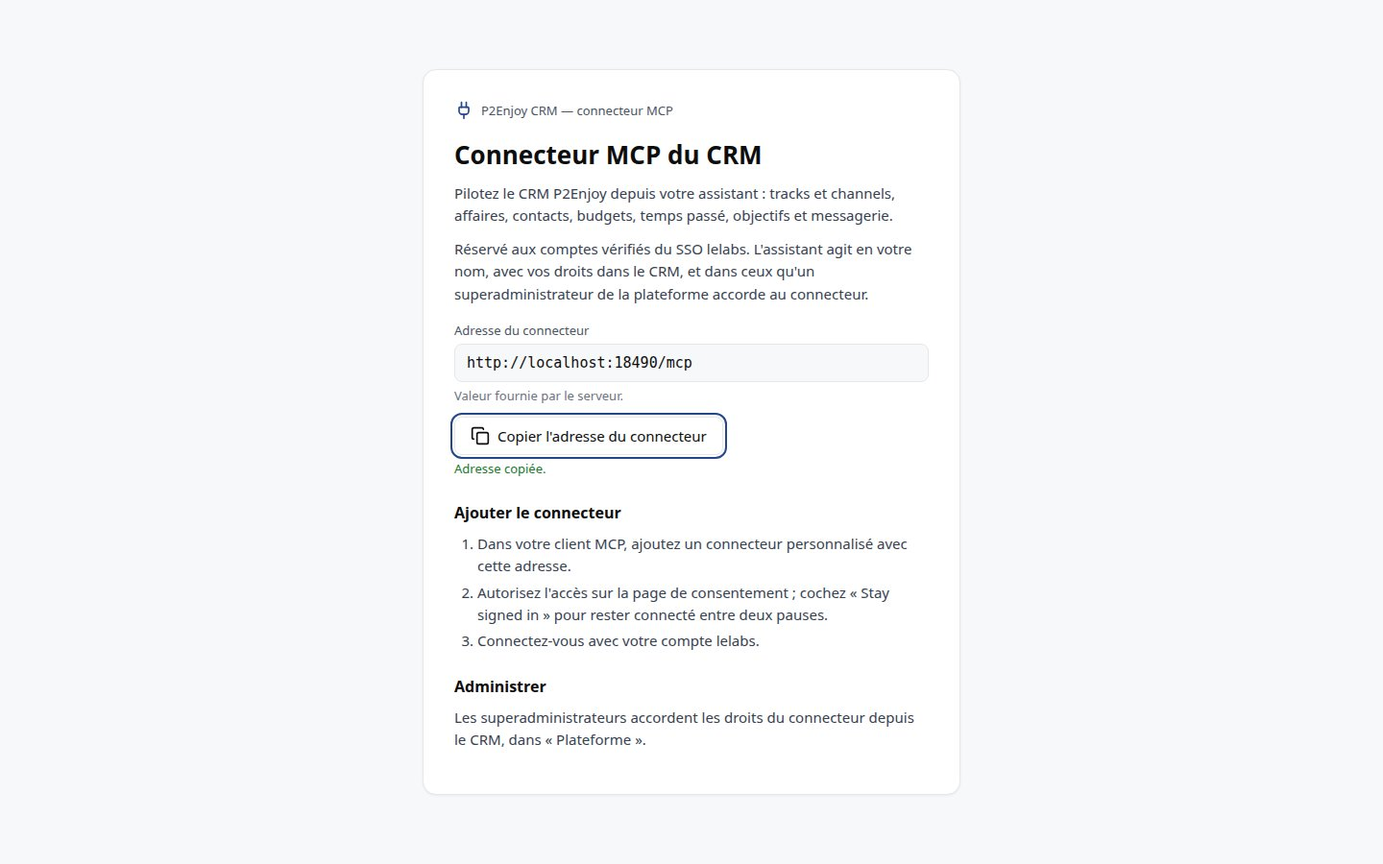
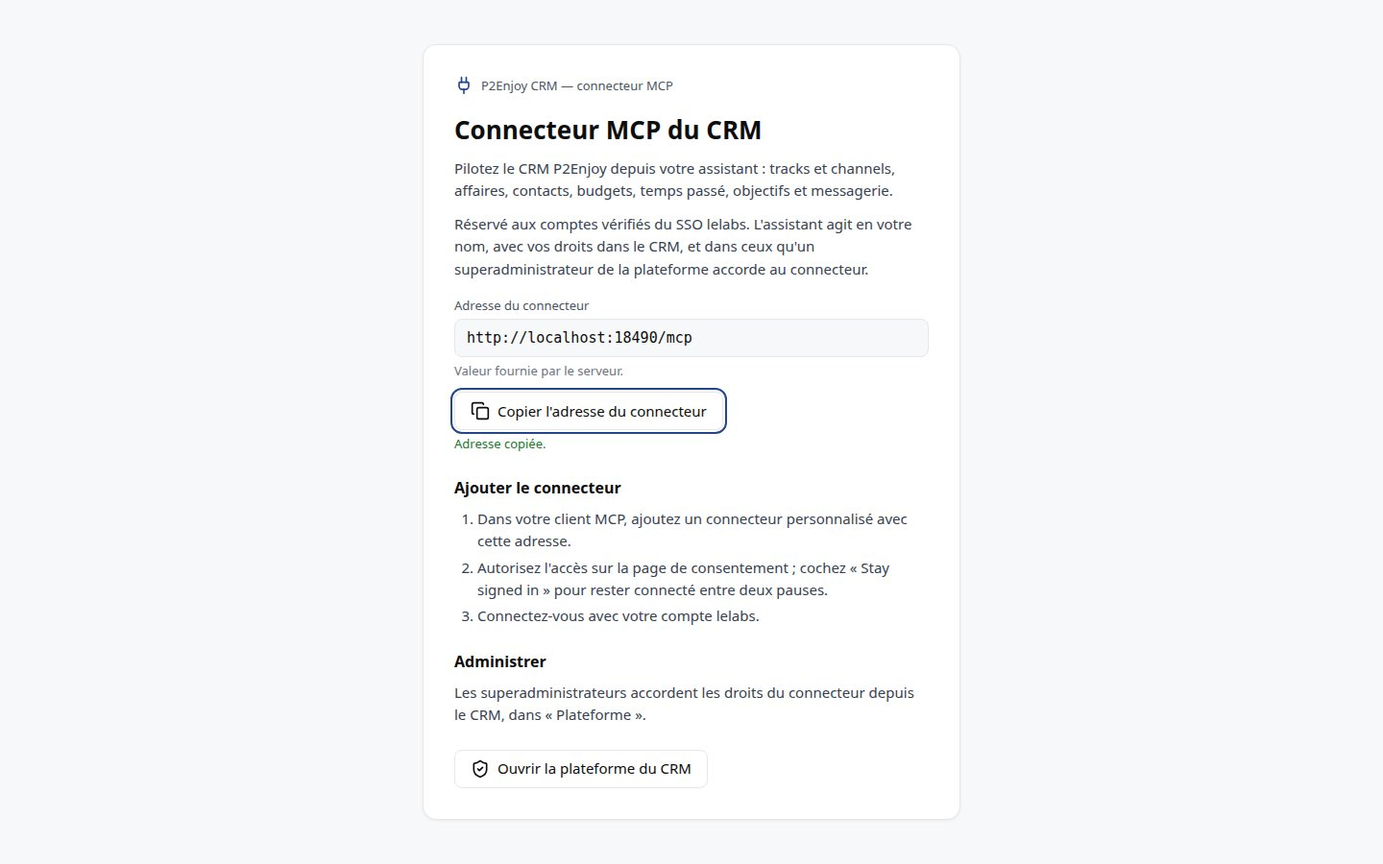
CRM-102 T6 : l'accueil du connecteur mène à la plateforme de la webapp — lien « Ouvrir la plateforme du CRM » (secondaire, ShieldCheck), /plateforme et /admin en 302 vers SITE_URL/plateforme, SITE_URL remise au service et obligatoire ; pytest 105, verify-mcp 53 (intégration 14/14 en direct et par le

Changed region(s): [[0.3125, 0.0933, 0.6562, 0.9022]]

diff --git a/e2e/ui/connecteur-mcp.spec.ts b/e2e/ui/connecteur-mcp.spec.ts
@@ -4,6 +4,8 @@
 //           vérification attendue ; aucun code émis sur un refus ; registre injoignable = refus), §5 (la donnée lue sous la
 //           RLS), §7.1 (une ligne au journal) ; docs/DESIGN_SYSTEM.md §5.57 (pages du connecteur), §5.12 (attente et
 //           refus), §7 (quatre paliers, aucun défilement horizontal), §8 (clavier) ; CLAUDE.md §15, §16
+// @verifies CRM-102 T6 — docs/SPEC-mcp.md §2.2 et docs/DESIGN_SYSTEM.md §5.57 : l'accueil mène, au clavier, à la plateforme
+//           de la webapp (`SITE_URL`), où la superadministratrice arrive après sa connexion ; `/admin` y mène aussi
 //
 // Le navigateur ne fait que ce qu'un humain fait — consentir, se connecter au SSO —, et le client MCP de test
 // (`e2e/mcp/client.ts`) fait le reste : enregistrement, échange du code, JSON-RPC. Tout part des comptes du realm de
@@ -11,9 +13,10 @@
 // l'état d'erreur, provoqué par un retrait de privilège rétabli dans le même scénario.
 
 import { execFileSync } from 'node:child_process'
-import { ERREUR_RESSOURCE_HTTP, autoriserErreursConsole, expect, test, type Page } from './fixtures'
+import { ERREUR_RESSOURCE_HTTP, autoriserErreursConsole, connecterAvecLeLabs, expect, test, type Page } from './fixtures'
 import { PALIERS, capturer } from './captures'
 import { MOT_DE_PASSE_SEED, URL_API, enTetesService } from '../api/jetons'
+import { lireEnv } from '../env'
 import { ORIGINE_MCP, RETOUR_CLIENT, SessionMcp, echangerCode, preparerAutorisation } from '../mcp/client'
 
 const UNITE = 'CRM-102'
@@ -175,6 +178,33 @@ test.describe('Le connecteur MCP, par un vrai client (docs/SPEC-mcp.md §3, §4)
 			await capturer(page, `accueil-${palier.nom}`, UNITE)
 			await sansDefilementHorizontal(page, `accueil ${palier.nom}`)
 		}
+	})
+
+	test('l’accueil mène à la plateforme de la webapp, au clavier ; « /admin » y mène aussi', async ({ page }) => {
+		const webapp = lireEnv('SITE_URL')
+		await page.goto(`${ORIGINE_MCP}/`)
+		const lien = page.getByRole('link', { name: 'Ouvrir la plateforme du CRM' })
+		await expect(lien).toHaveAttribute('href', `${webapp}/plateforme`)
+		expect(await lien.getAttribute('target'), 'même onglet : la webapp est le même produit (§5.57)').toBeNull()
+		for (const palier of PALIERS) {
+			await page.setViewportSize({ width: palier.largeur, height: palier.hauteur })
+			await lien.scrollIntoViewIfNeeded()
+			expect((await lien.boundingBox())?.height ?? 0, `cible de 40 px (§8), ${palier.nom}`).toBeGreaterThanOrEqual(40)
+			await capturer(page, `accueil-administration-${palier.nom}`, UNITE)
+			await sansDefilementHorizontal(page, `accueil, lien de la plateforme, ${palier.nom}`)
+		}
+		await page.setViewportSize({ width: 1440, height: 900 })
+		await lien.focus()
+		await page.keyboard.press('Enter')
+		// Sans session, la webapp demande la connexion et retient l'adresse demandée (§5.12) ; la superadministratrice
+		// arrive ensuite sur la plateforme.
+		await expect(page.getByRole('button', { name: 'Se connecter avec LeLabs' })).toBeVisible()
+		expect(new URL(page.url()).origin).toBe(new URL(webapp).origin)
+		await connecterAvecLeLabs(page, SABINE.adresse, { naviguer: false })
+		await expect(page).toHaveURL(`${webapp}/plateforme/espaces`)
+		await page.goto(`${ORIGINE_MCP}/admin`)
+		await expect(page).toHaveURL(`${webapp}/plateforme/espaces`)
+		await expect(page.getByTestId('ligne-espace').first()).toBeVisible()
 	})
 
 	test('la page de consentement porte la charte, ne charge rien d’un tiers, et tient aux quatre paliers', async ({ page }) => {

diff --git a/mcp/crm_mcp/pages.py b/mcp/crm_mcp/pages.py
@@ -2,6 +2,8 @@
 # @spec docs/SPEC-mcp.md §4 (« Compte en attente de vérification », « Droits en attente », « La connexion n'a pas abouti »),
 #       §2.2 (adresse du connecteur) ; docs/DESIGN_SYSTEM.md §5.57 (les pages du connecteur), §5.12 (surface autonome,
 #       attente et refus), §1 (jetons de la webapp) — tranche T3 : jetons, icônes d'attente et de refus, espaces insécables
+# @spec CRM-102 tranche T6 — docs/DESIGN_SYSTEM.md §5.57 (« Ouvrir la plateforme du CRM », lien secondaire, `ShieldCheck`) ;
+#       docs/SPEC-mcp.md §2.2 (l'administration vit dans la webapp)
 # @spec Repris du connecteur Evoliz (p2enjoy-evoliz, `evoliz_mcp/pages.py`, révision 80a3e27). Écarts : textes du CRM,
 #       aucune administration propre — elle vit dans la webapp (arbitrage A3) —, favicon du CRM (monogramme « P2 »).
 """Pages publiques : accueil, attentes (vérification, droits), erreur de connexion.
@@ -48,6 +50,12 @@ _ICONE_ALERTE = (
     '<svg class="icone" aria-hidden="true" viewBox="0 0 24 24">'
     '<path d="m21.73 18-8-14a2 2 0 0 0-3.48 0l-8 14A2 2 0 0 0 4 21h16a2 2 0 0 0 1.73-3"/>'
     '<path d="M12 9v4"/><path d="M12 17h.01"/></svg>'
+)
+# `ShieldCheck`, l'icône de l'entrée « Plateforme » de la webapp (§5.56) : le même objet (§9).
+_ICONE_PLATEFORME = (
+    '<svg class="icone" aria-hidden="true" viewBox="0 0 24 24"><path d="M20 13c0 5-3.5 7.5-7.66 8.95a1 1 0 0 1-.67-.01'
+    'C7.5 20.5 4 18 4 13V6a1 1 0 0 1 1-1c2 0 4.5-1.2 6.24-2.72a1.17 1.17 0 0 1 1.52 0C14.51 3.81 17 5 19 5a1 1 0 0 1 1 1z"/>'
+    '<path d="m9 12 2 2 4-4"/></svg>'
 )
 _ICONE_COPIE = (
     '<svg class="icone" aria-hidden="true" viewBox="0 0 24 24"><rect width="14" height="14" x="8" y="8" '
@@ -166,8 +174,8 @@ def _page(titre: str, corps: str, script: str = "") -> str:
 """
 
 
-def accueil(url_mcp: str) -> str:
-    """Page d'accueil : ce qu'est le service, son adresse, sa règle d'accès."""
+def accueil(url_mcp: str, url_plateforme: str) -> str:
+    """Page d'accueil : ce qu'est le service, son adresse, sa règle d'accès, et le chemin de son administration."""
     corps = f"""<h1>Connecteur MCP du CRM</h1>
 <p>Pilotez le CRM P2Enjoy depuis votre assistant&nbsp;: tracks et channels, affaires, contacts, budgets, temps passé,
 objectifs et messagerie.</p>
@@ -188,7 +196,8 @@ ceux qu'un superadministrateur de la plateforme accorde au connecteur.</p>
   <li>Connectez-vous avec votre compte lelabs.</li>
 </ol>
 <h2>Administrer</h2>
-<p>Les superadministrateurs accordent les droits du connecteur depuis le CRM, dans «&nbsp;Plateforme&nbsp;».</p>"""
+<p>Les superadministrateurs accordent les droits du connecteur depuis le CRM, dans «&nbsp;Plateforme&nbsp;».</p>
+<p class="actions"><a class="bouton bouton-secondaire" href="{escape(url_plateforme)}">{_ICONE_PLATEFORME}<span>Ouvrir la plateforme du CRM</span></a></p>"""
     script = """<script>
 document.getElementById('copier').addEventListener('click', async function () {
   var champ = document.getElementById('adresse');

diff --git a/mcp/tests/test_pages.py b/mcp/tests/test_pages.py
@@ -3,19 +3,34 @@
 #           attentes, pas des erreurs ; la connexion refusée est une alerte), §3.3 (« Stay signed in » expliqué)
 # @verifies Repris des preuves d'Evoliz (p2enjoy-evoliz, `tests/test_pages.py`, révision 80a3e27) ; l'administration vit
 #           dans la webapp du CRM (arbitrage A3).
+# @verifies CRM-102 T6 — docs/DESIGN_SYSTEM.md §5.57 (l'accueil mène à la plateforme : lien secondaire « Ouvrir la
+#           plateforme du CRM », icône `ShieldCheck`, adresse échappée) ; docs/SPEC-mcp.md §2.2
 from __future__ import annotations
 
 from crm_mcp import pages
 
 
 def test_accueil_donne_l_adresse_et_la_regle():
-    html = pages.accueil("https://crm.mcp.exemple.test/mcp")
+    html = pages.accueil("https://crm.mcp.exemple.test/mcp", "https://crm.exemple.test/plateforme")
     assert 'value="https://crm.mcp.exemple.test/mcp"' in html
     assert "comptes vérifiés du SSO lelabs" in html and "superadministrateur" in html
     assert "«&nbsp;Stay signed in&nbsp;»" in html and "«&nbsp;Plateforme&nbsp;»" in html
     assert "assistant&nbsp;:" in html, "espace insécable avant les deux-points (docs/DESIGN_SYSTEM.md §5.51)"
     assert "/admin" not in html
     assert 'lang="fr"' in html and 'rel="icon"' in html
+
+
+def test_accueil_mene_a_la_plateforme_de_la_webapp():
+    """Un lien — il change d'adresse — en forme de bouton secondaire, pour la cible de 40 px ; `ShieldCheck`, l'icône de
+    l'entrée « Plateforme » de la webapp ; même onglet (docs/DESIGN_SYSTEM.md §5.57)."""
+    html = pages.accueil("https://crm.mcp.exemple.test/mcp", "https://crm.exemple.test/plateforme")
+    lien = (
+        '<a class="bouton bouton-secondaire" href="https://crm.exemple.test/plateforme">'
+        '<svg class="icone" aria-hidden="true" viewBox="0 0 24 24"><path d="M20 13c0 5-3.5 7.5-7.66 8.95'
+    )
+    assert lien in html
+    assert '<path d="m9 12 2 2 4-4"/></svg><span>Ouvrir la plateforme du CRM</span></a>' in html
+    assert html.count("<a ") == 1 and "target=" not in html
 
 
 def test_attente_et_refus_portent_les_formes_du_5_12():
@@ -43,7 +58,8 @@ def test_valeurs_echappees():
     assert "<script>alert(1)</script>" not in pages.droits_en_attente(courriel='"><script>alert(1)</script>')
     html = pages.verification_attendue(courriel="<b>", compte_url='javascript:x"')
     assert "&lt;b&gt;" in html and 'javascript:x"' not in html
-    assert '"><img' not in pages.accueil('https://x/"><img src=x>')
+    assert '"><img' not in pages.accueil('https://x/"><img src=x>', "https://crm.exemple.test/plateforme")
+    assert '"><img' not in pages.accueil("https://x/mcp", 'https://x/"><img src=x>')
 
 
 def test_erreur_connexion_est_une_alerte():

diff --git a/mcp/crm_mcp/application.py b/mcp/crm_mcp/application.py
@@ -1,5 +1,6 @@
 # @spec CRM-102 (docs/BACKLOG.md) — tranche T2 : l'assemblage du connecteur
 # @spec CRM-102 tranche T3 — docs/DESIGN_SYSTEM.md §5.57 (l’icône du serveur, monogramme du CRM, sur la page de consentement)
+# @spec CRM-102 tranche T6 — docs/SPEC-mcp.md §2.2 (`/plateforme` et `/admin` mènent à l'administration de la webapp)
 # @spec docs/SPEC-mcp.md §2 (un service, un hôte, `/mcp`), §3 (mandataire OAuth, état chiffré), §6.2 (audit puis
 #       politique, avant l'outil), §11 (`/sante`, `/pret`) ; docs/JOURNAL.md décision 627 (D1, D5, D8)
 # @spec Modèle : `evoliz_mcp/application.py` (p2enjoy-evoliz, révision 80a3e27). Écarts : aucune administration
@@ -16,7 +17,7 @@ import httpx2
 from fastmcp import FastMCP
 from mcp_types import Icon
 from starlette.requests import Request
-from starlette.responses import HTMLResponse, JSONResponse
+from starlette.responses import HTMLResponse, JSONResponse, RedirectResponse
 
 from crm_mcp import pages
 from crm_mcp.audit import AuditOutils
@@ -44,6 +45,21 @@ you see and change exactly what you could in the CRM web app, never more.
 - Lists are paginated: use limit (max 100) and offset.
 - Nothing is ever purged through this connector: "supprimer" moves to the trash or archives.
 """
+
+
+#: Chemins de l'hôte du connecteur qui mènent à l'administration, dans la webapp : celui que le responsable a tapé, et
+#: celui de l'administration d'Evoliz (docs/SPEC-mcp.md §2.2). Aucun autre chemin n'est redirigé.
+CHEMINS_ADMINISTRATION = ("/plateforme", "/admin")
+
+
+def vers_l_administration(url_plateforme: str):
+    """Le point qui répond `302` vers la plateforme de la webapp. `302` et non `301` : la destination changera avec
+    `CRM-103`. La chaîne de requête n'est pas transmise."""
+
+    async def rediriger(_: Request) -> RedirectResponse:
+        return RedirectResponse(url_plateforme, status_code=302)
+
+    return rediriger
 
 
 @dataclass
@@ -104,7 +120,11 @@ def construire(reglages: Reglages, *, transport_crm: httpx2.AsyncBaseTransport |
 
     @serveur.custom_route("/", methods=["GET"])
     async def accueil(_: Request) -> HTMLResponse:
-        return HTMLResponse(pages.accueil(reglages.url_mcp))
+        return HTMLResponse(pages.accueil(reglages.url_mcp, reglages.url_plateforme))
+
+    rediriger = vers_l_administration(reglages.url_plateforme)
+    for chemin in CHEMINS_ADMINISTRATION:
+        serveur.custom_route(chemin, methods=["GET"])(rediriger)
 
     @serveur.custom_route("/sante", methods=["GET"])
     async def sante(_: Request) -> JSONResponse:

diff --git a/mcp/tests/test_application.py b/mcp/tests/test_application.py
@@ -1,13 +1,18 @@
 # @spec CRM-102 (docs/BACKLOG.md) — tranche T2 : preuves unitaires de l'assemblage et des sondes
 # @verifies CRM-102 T2 — docs/SPEC-mcp.md §11 (`/pret` : découverte OIDC et `rest` à travers Kong, contrôle en défaut
 #           nommé), §2 (consignes au modèle : point de départ `crm_workspace_list`, refus uniforme, pagination)
+# @verifies CRM-102 T6 — docs/SPEC-mcp.md §2.2 (`/plateforme` et `/admin` en `302` vers la plateforme de la webapp, sans
+#           chaîne de requête ; aucun autre chemin). L'enregistrement dans le service réel est prouvé par l'intégration.
 from __future__ import annotations
 
 import httpx2
 import pytest
 
 from crm_mcp import application
-from crm_mcp.application import INSTRUCTIONS, disponibilite
+from starlette.applications import Starlette
+from starlette.routing import Route
+
+from crm_mcp.application import CHEMINS_ADMINISTRATION, INSTRUCTIONS, disponibilite, vers_l_administration
 from crm_mcp.crm import ClientCrm
 
 from .conftest import CLE_ANONYME, CLE_SERVICE
@@ -66,3 +71,17 @@ def test_consignes_au_modele():
     assert "crm_workspace_list" in INSTRUCTIONS
     assert "Introuvable ou hors de votre périmètre" in INSTRUCTIONS
     assert "limit (max 100) and offset" in INSTRUCTIONS
+
+
+async def test_les_chemins_de_l_administration_redirigent_vers_la_webapp():
+    assert CHEMINS_ADMINISTRATION == ("/plateforme", "/admin")
+    cible = "https://crm.exemple.test/plateforme"
+    point = vers_l_administration(cible)
+    routes = [Route(chemin, point, methods=["GET"]) for chemin in CHEMINS_ADMINISTRATION]
+    transport = httpx2.ASGITransport(app=Starlette(routes=routes))
+    async with httpx2.AsyncClient(transport=transport, base_url="https://crm.mcp.exemple.test") as http:
+        for chemin in ("/plateforme", "/admin", "/plateforme?onglet=espaces"):
+            reponse = await http.get(chemin)
+            assert (reponse.status_code, reponse.headers["location"]) == (302, cible), chemin
+        assert (await http.get("/plateforme/espaces")).status_code == 404
+        assert (await http.post("/plateforme")).status_code == 405

diff --git a/mcp/crm_mcp/reglages.py b/mcp/crm_mcp/reglages.py
@@ -1,6 +1,7 @@
 # @spec CRM-102 (docs/BACKLOG.md) — tranche T2 : la configuration du connecteur
 # @spec docs/SPEC-mcp.md §10 (variables, formats, caractère obligatoire), §2.2 (adresses) ; docs/SPEC-plateforme.md §3
 #       (la liste d'amorçage, normalisée comme par la fonction `session`)
+# @spec CRM-102 tranche T6 — docs/SPEC-mcp.md §2.2, §10 : `SITE_URL` réutilisée, l'adresse de la plateforme de la webapp
 """Réglages lus dans l'environnement, une fois, au démarrage.
 
 Le démarrage refuse une configuration incomplète en NOMMANT chaque variable manquante : un service qui partirait
@@ -57,6 +58,7 @@ def _entier(valeur: str | None, defaut: int) -> int:
 @dataclass(frozen=True)
 class Reglages:
     origine_publique: str
+    origine_webapp: str
     oidc_emetteur: str
     oidc_client_id: str
     oidc_client_secret: str
@@ -81,6 +83,11 @@ class Reglages:
     def url_mcp(self) -> str:
         return f"{self.origine_publique}/mcp"
 
+    @property
+    def url_plateforme(self) -> str:
+        """L'administration du connecteur, dans la webapp (arbitrage A3, docs/SPEC-mcp.md §2.2)."""
+        return f"{self.origine_webapp}/plateforme"
+
     @classmethod
     def depuis_environnement(cls, env: Mapping[str, str]) -> Reglages:
         obligatoires = {
@@ -92,6 +99,7 @@ class Reglages:
             "SUPABASE_URL": env.get("SUPABASE_URL", "").strip().rstrip("/"),
             "SUPABASE_ANON_KEY": env.get("SUPABASE_ANON_KEY", ""),
             "SUPABASE_SERVICE_ROLE_KEY": env.get("SUPABASE_SERVICE_ROLE_KEY", ""),
+            "SITE_URL": env.get("SITE_URL", "").strip().rstrip("/"),
         }
         manquantes = [nom for nom, valeur in obligatoires.items() if not valeur]
         if manquantes:
@@ -101,6 +109,7 @@ class Reglages:
         )
         return cls(
             origine_publique=obligatoires["CRM_MCP_ORIGINE_PUBLIQUE"],
+            origine_webapp=obligatoires["SITE_URL"],
             oidc_emetteur=obligatoires["SSO_OIDC_ISSUER"],
             oidc_client_id=obligatoires["SSO_OIDC_CLIENT_ID"],
             oidc_client_secret=obligatoires["OIDC_CLIENT_SECRET"],

diff --git a/mcp/tests/test_reglages.py b/mcp/tests/test_reglages.py
@@ -1,6 +1,7 @@
 # @spec CRM-102 (docs/BACKLOG.md) — tranche T2 : preuves unitaires des réglages
 # @verifies CRM-102 T2 — docs/SPEC-mcp.md §10 (variables, formats, défauts, refus nommé d'une configuration
 #           incomplète) ; docs/SPEC-plateforme.md §3 (liste d'amorçage normalisée comme par la fonction `session`)
+# @verifies CRM-102 T6 — docs/SPEC-mcp.md §2.2, §10 (`SITE_URL` obligatoire, l'adresse de la plateforme de la webapp)
 from __future__ import annotations
 
 from pathlib import Path
@@ -14,6 +15,8 @@ def test_configuration_complete_et_defauts(env_complet):
     r = Reglages.depuis_environnement(env_complet)
     assert r.origine_publique == "https://crm.mcp.exemple.test"
     assert r.url_mcp == "https://crm.mcp.exemple.test/mcp"
+    assert r.origine_webapp == "https://crm.exemple.test"
+    assert r.url_plateforme == "https://crm.exemple.test/plateforme"
     assert r.oidc_emetteur == "https://sso.exemple.test/realms/lelabs"
     assert r.decouverte == "https://sso.exemple.test/realms/lelabs/.well-known/openid-configuration"
     assert r.api_crm == "http://kong:8000"
@@ -31,6 +34,14 @@ def test_chaque_variable_manquante_est_nommee(env_complet):
         Reglages.depuis_environnement(env_complet)
     assert erreur.value.manquantes == ["SSO_OIDC_CLIENT_ID", "JWT_SECRET", "SUPABASE_SERVICE_ROLE_KEY"]
     assert "JWT_SECRET" in str(erreur.value)
+
+
+def test_site_url_manquante_est_nommee(env_complet):
+    """Sans l'origine de la webapp, l'accueil et `/plateforme` ne sauraient où mener : le démarrage refuse."""
+    env_complet["SITE_URL"] = " / "
+    with pytest.raises(ReglagesIncomplets) as erreur:
+        Reglages.depuis_environnement(env_complet)
+    assert erreur.value.manquantes == ["SITE_URL"]
 
 
 def test_valeurs_facultatives_lues(env_complet):

diff --git a/mcp/tests/test_integration_oauth.py b/mcp/tests/test_integration_oauth.py
@@ -4,6 +4,8 @@
 #           renouvellement qui survit à la fin de la session du SSO), §3.4 (adresses de retour restreintes), §4 (qui
 #           entre : superadministratrice en base, `admin` LeLabs, un droit ; « Droits en attente » ; vérification
 #           attendue ; aucun code sur un refus), §5 (la donnée lue sous la RLS), §7.1 (une ligne au journal), §11 (`/pret`)
+# @verifies CRM-102 T6 — docs/SPEC-mcp.md §2.2 : le service en route redirige `/plateforme` et `/admin` vers la plateforme
+#           de la webapp (`SITE_URL`), et son accueil porte le lien ; en direct comme à travers le Caddy de la cellule
 # @verifies Modèle : `tests/test_integration_oauth.py` d'Evoliz (p2enjoy-evoliz, révision 80a3e27). Écarts : les comptes
 #           du realm du CRM ; `sso.localhost` est le même dedans et dehors (décision 568), seule l'origine publique du
 #           connecteur est réécrite ; le registre est lu en base par la clé de service.
@@ -228,6 +230,15 @@ async def test_pret_dit_sso_et_crm():
         reponse = await http.get(f"{MCP}/pret")
     assert reponse.status_code == 200, reponse.text
     assert reponse.json()["controles"] == {"sso": "ok", "crm": "ok"}
+
+
+async def test_plateforme_et_admin_menent_a_la_webapp():
+    async with httpx2.AsyncClient() as http:
+        for chemin in ("/plateforme", "/admin"):
+            reponse = await http.get(f"{MCP}{chemin}")
+            assert (reponse.status_code, reponse.headers.get("location")) == (302, f"{SITE}/plateforme"), chemin
+        accueil = (await http.get(f"{MCP}/")).text
+    assert f'class="bouton bouton-secondaire" href="{SITE}/plateforme"' in accueil
 
 
 async def test_adresse_de_retour_hors_liste_refusee():

diff --git a/mcp/tests/conftest.py b/mcp/tests/conftest.py
@@ -40,6 +40,7 @@ ENV_COMPLET = {
     "SUPABASE_URL": "http://kong:8000/",
     "SUPABASE_ANON_KEY": CLE_ANONYME,
     "SUPABASE_SERVICE_ROLE_KEY": CLE_SERVICE,
+    "SITE_URL": "https://crm.exemple.test/",
 }
 
 

diff --git a/README.md b/README.md
@@ -663,7 +663,7 @@ preuves.
 | Chiffrement | `PG_META_CRYPTO_KEY`, `REALTIME_DB_ENC_KEY` | Obligatoires. Longueurs imposées : 32 et 16 caractères. Les secrets de messagerie ne sont pas ici : ils vivent dans le Vault de la base, chiffrés par sa clé racine (décision 366, INC-098) |
 | Durée des jetons | `JWT_EXPIRY` | Obligatoire, lue par la base et PostgREST. `DISABLE_SIGNUP` et `PASSWORD_MIN_LENGTH` sont retirées avec GoTrue (`CRM-092` T6) |
 | Superadministration | `CRM_SUPERADMINS_INITIAUX` | `CRM-101`. **Facultative.** Adresses LeLabs amorcées superadministratrices de la plateforme à leur première connexion admise, **tant qu'aucune ne l'est** ; sans effet ensuite (`docs/SPEC-plateforme.md` §3). Remise au seul worker `session`. Vide dans le gabarit ; en développement, l'overlay lui donne pour défaut le compte de démonstration `plateforme@<domaine du seed>` ; en production, le propriétaire du Spark y pose l'adresse du responsable |
-| Connecteur MCP | `CRM_MCP_HOTE`, `CRM_MCP_REDIRECTIONS_CLIENTS`, `CRM_MCP_TAILLE_MAX_REPONSE`, `CRM_MCP_DEBIT_OAUTH_MINUTE`, `CRM_MCP_ENREGISTREMENTS_HEURE`, `CRM_MCP_JOURNAL_NIVEAU`, `MCP_DEV_PORT` | `CRM-102`. **Toutes facultatives.** `CRM_MCP_HOTE` (un nom d'hôte, par exemple `crm.mcp.lelabs.tech`) allume le connecteur en production — profil Compose `mcp` et aiguillage de Caddy — ; vide, il reste éteint et ne reçoit aucun secret. `CRM_MCP_ORIGINE_PUBLIQUE` n'est jamais posée à la main : Compose la dérive. Les autres règlent les adresses de retour acceptées, la taille des réponses, les débits et les journaux (`docs/SPEC-mcp.md` §10) ; `MCP_DEV_PORT` (`18490`) publie le connecteur en développement |
+| Connecteur MCP | `CRM_MCP_HOTE`, `CRM_MCP_REDIRECTIONS_CLIENTS`, `CRM_MCP_TAILLE_MAX_REPONSE`, `CRM_MCP_DEBIT_OAUTH_MINUTE`, `CRM_MCP_ENREGISTREMENTS_HEURE`, `CRM_MCP_JOURNAL_NIVEAU`, `MCP_DEV_PORT` | `CRM-102`. **Toutes facultatives.** `CRM_MCP_HOTE` (un nom d'hôte, par exemple `crm.mcp.lelabs.tech`) allume le connecteur en production — profil Compose `mcp` et aiguillage de Caddy — ; vide, il reste éteint et ne reçoit aucun secret. `CRM_MCP_ORIGINE_PUBLIQUE` n'est jamais posée à la main : Compose la dérive. Le service reçoit aussi `SITE_URL`, déjà obligatoire : son accueil et ses chemins `/plateforme` et `/admin` mènent à la plateforme de la webapp (T6). Les autres règlent les adresses de retour acceptées, la taille des réponses, les débits et les journaux (`docs/SPEC-mcp.md` §10) ; `MCP_DEV_PORT` (`18490`) publie le connecteur en développement |
 | Connexion unique | `SSO_OIDC_ISSUER`, `SSO_OIDC_CLIENT_ID`, `OIDC_CLIENT_SECRET`, `SSO_DEV_PORT`, `SSO_DEV_ADMIN_PASSWORD` | `CRM-091`, révisé par `CRM-092`. Les trois premières sont obligatoires partout : émetteur exact, client OIDC **confidentiel** (`lelabs-crm-serveur`) et son secret, lus par l'échangeur de session — le secret n'atteint que lui, et jamais le bundle ; l'émetteur et le client sont en outre figés au build de la webapp. En production, le secret est posé par l'administrateur du realm LeLabs ; en développement, tiré au hasard par `./runDev.sh`. Les deux dernières ne servent qu'au Keycloak de développement ; le mot de passe d'administration est tiré au hasard par `./runDev.sh` et **sans objet** dans la cellule Spark |
 | Pile | `STACK_RLIMIT_NOFILE`, `APPLY_MIGRATIONS` | Facultatives, avec défauts. `APPLY_MIGRATIONS=false` est imposé en production **et doit y rester** : c'est ce qui empêche une migration non décidée. Les migrations de production s'appliquent dans une fenêtre de maintenance ouverte par `./runProd.sh --migrate`, qui surcharge la variable pour sa seule invocation sans réécrire `.env`, et dont le retour arrière est la restauration de l'instantané de VM (décision 489, `CRM-087`) |
 | Production | `APP_DOMAIN`, `CADDY_ACME_EMAIL` | Obligatoires en production uniquement. `CADDY_ACME_EMAIL` est **sans objet dans la cellule Spark**, où la Forge porte le certificat |

diff --git a/docs/BACKLOG.md b/docs/BACKLOG.md
@@ -15227,12 +15227,21 @@ code : `docs/SPEC-mcp.md` §1 à §7 et §10 à §15, `docs/SCHEMA.md` §9 quinq
       sans session. Ces contrôles sont faits à la main. **Restent** : porter ces contrôles dans `scripts/spark/verifier.sh`,
       comme le geste 5 du §2.14 du contrat de déploiement l'annonçait, et le constat du responsable — ajouter le
       connecteur dans Claude ou ChatGPT et appeler `crm_workspace_list` (la matrice attend `CRM-103`).
-- [ ] **T6** — du connecteur vers l'administration : l'accueil du connecteur porte le lien « Ouvrir la plateforme du
+- [x] **T6** — du connecteur vers l'administration : l'accueil du connecteur porte le lien « Ouvrir la plateforme du
       CRM » vers `${SITE_URL}/plateforme`, et `GET /plateforme` et `GET /admin` sur l'hôte du connecteur répondent `302`
       vers la même adresse ; `SITE_URL`, déjà obligatoire partout, est remise au service. Demandée par le responsable le
       2026-10-21 : le lien manquait sur l'accueil, et `crm.mcp.lelabs.tech/plateforme` rendait `404`. Spécifiée avant le
       code : `docs/SPEC-mcp.md` §2.2, §10, §13 ; `docs/DESIGN_SYSTEM.md` §5.57 ; `docs/JOURNAL.md`, décision 627,
       précision T6.
+      *Vérifié le 2026-10-21, en développement* : pytest **105** (trois nouveaux : `SITE_URL` nommée quand elle manque,
+      le lien de l'accueil et son adresse échappée, `302` des deux chemins sans chaîne de requête et rien d'autre) ;
+      `scripts/verify-mcp.sh` **53** contrôles sans anomalie — intégration **14/14** en direct et à travers le Caddy de la
+      cellule (le service en route redirige, son accueil porte le lien), interface **8/8** : le lien suivi au clavier
+      mène à la webapp, qui demande la connexion, puis Sabine arrive sur `/plateforme/espaces`, et `/admin` y mène aussi ;
+      `scripts/verify-spark.sh` **109** — `SITE_URL` atteint `mcp` allumé, et son retrait est détecté. Captures
+      `docs/captures/CRM-102/accueil-administration-*` observées aux quatre paliers : bouton secondaire, `ShieldCheck`,
+      cible pleine, aucun débordement. **Non livré** : la livraison attend l'instruction du responsable
+      (`docs/PROD_MIGRATIONS.md` §2.14).
 
 ### CRM-103 — Administration du connecteur MCP dans la webapp `[ ]`
 *Créée le 2026-10-20 — décision 627 (A3). Quatrième onglet de `/plateforme` : comptes connectés, matrice familles ×

diff --git a/docs/DAT.md b/docs/DAT.md
@@ -596,7 +596,7 @@ lit la composition vivante et l'occupation **avec le jeton de l'appelant**, avan
 illisible n'en ouvre aucune, et le modèle ne reçoit que la configuration et des nombres d'affaires (`docs/SPEC-ia.md`
 §13.5).
 
-### 3.7 ter Connecteur MCP — service `mcp` (`CRM-102` à `CRM-104` ; `CRM-102` T1 à T3 en développement, non livré)
+### 3.7 ter Connecteur MCP — service `mcp` (`CRM-102` à `CRM-104` ; `CRM-102` T1 à T4 livrées en production le 2026-10-21, T6 en cours)
 
 Spécification : `docs/SPEC-mcp.md` ; décision 627.
 
@@ -626,6 +626,10 @@ Le droit effectif est l'intersection des deux.
 **Un service qui n'existe que configuré.** Profil Compose `mcp` : toujours actif en développement, activé en
 production par la seule variable d'exploitation `CRM_MCP_HOTE`, dont Compose dérive l'origine publique. Éteint, il
 n'est ni construit ni démarré, et ne reçoit aucun secret ; la plateforme se livre sans lui (`docs/SPEC-mcp.md` §2.1).
+
+**Son administration vit dans la webapp** (arbitrage A3), à `${SITE_URL}/plateforme`. Le service reçoit `SITE_URL`,
+déjà obligatoire, pour y mener : un lien sur son accueil, et une redirection `302` de ses chemins `/plateforme` et
+`/admin` (`CRM-102` T6, `docs/SPEC-mcp.md` §2.2). Sans `SITE_URL`, il refuse de démarrer en la nommant.
 
 ### 3.8 Contraintes d'exécution de l'hôte
 
